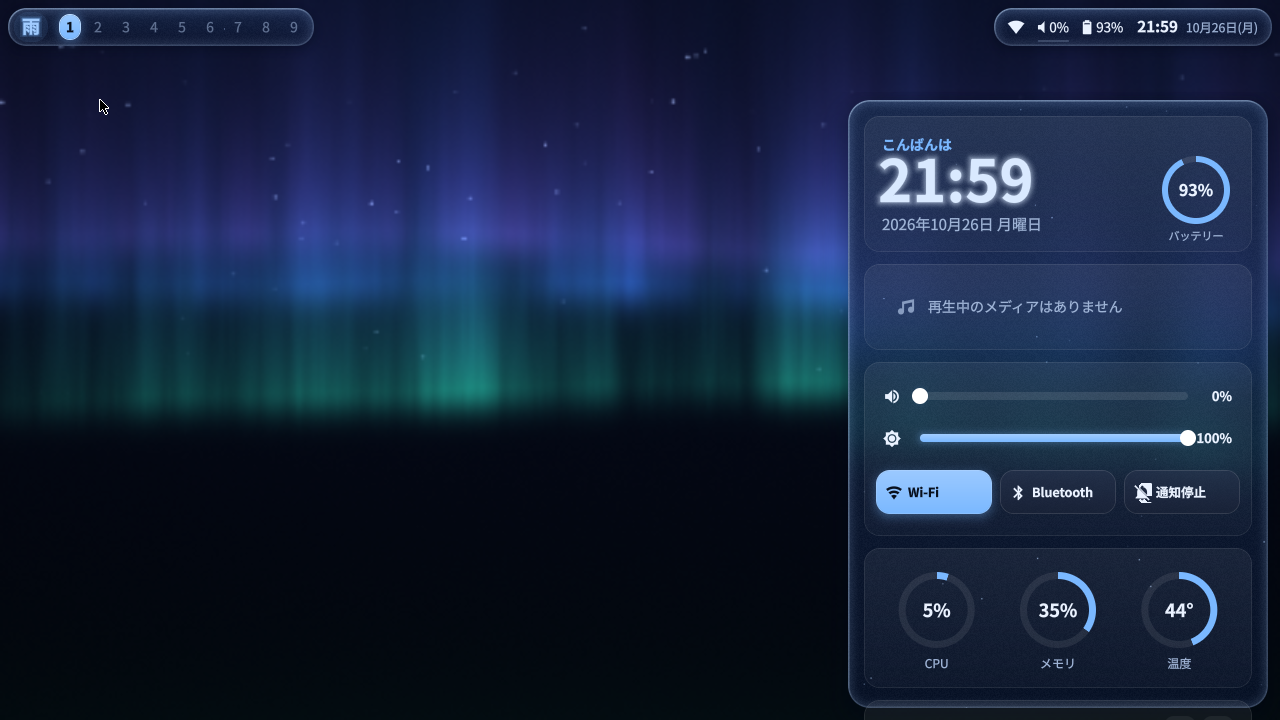
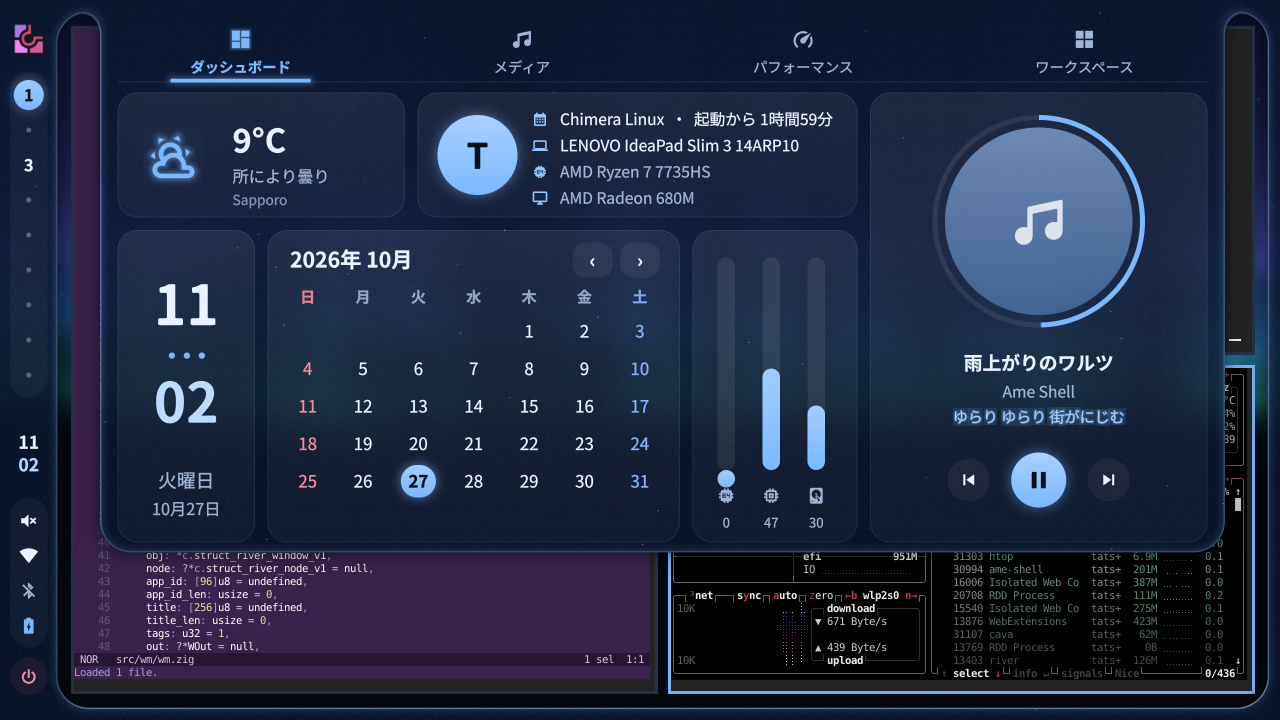
README とスクリーンショットを最新に、天気の場所の設定と ame-ctl dashboard <タブ> を追加

diff --git a/README.md b/README.md
@@ -1,51 +1,64 @@
 # ame-shell(雨)
 
-River(Wayland コンポジタ)の上で動く、アニメーション重視のガラス調デスクトップシェル。
-Quickshell / QML / Qt / Python / C++ を使わず、**Zig・Odin・C・WebAssembly** だけで書いています。
-Chimera Linux(musl + dinit)向け。SDDM から選んでログインできるセッションつき。
+[River](https://isaacfreund.com/software/river/)(Wayland コンポジタ)の上で動く、アニメーション重視のガラス調デスクトップシェル。
+caelestia-shell・end-4・ilyamiro の雰囲気を目指しつつ、Quickshell / QML / Qt / Python / C++ を使わず **Zig・Odin・C・WebAssembly** だけで書いています。
+Chimera Linux(musl + dinit)向け。SDDM から選べるセッションつき。
+
+![ame-shell](docs/screenshots/hero.png)
 
 | | |
 |---|---|
-| ![ランチャーと通知](docs/screenshots/launcher-notify.png) | ![ダッシュボード](docs/screenshots/dashboard.png) |
-| ![ロック画面](docs/screenshots/lock.png) | ![液体のように伸びるタグ表示](docs/screenshots/liquid-tags.png) |
+| ![ダッシュボード](docs/screenshots/dashboard.png) | ![メディアと同期歌詞](docs/screenshots/media.png) |
+| ![パフォーマンス](docs/screenshots/performance.png) | ![ワークスペースとアプリ](docs/screenshots/workspaces.png) |
+| ![ランチャー](docs/screenshots/launcher.png) | ![壁紙ピッカー](docs/screenshots/wallpaper-picker.png) |
+| ![壁紙から作る配色](docs/screenshots/theme-from-wallpaper.png) | ![ロック画面](docs/screenshots/lock.png) |
 
-## 何が入っているか
+## 特徴
 
-**レイアウトは 2 種類**(`shell { layout caelestia | classic }`、既定は caelestia):
-- **caelestia**: 画面のふちを細い枠が囲み、左に縦バー。枠の縁にマウスを乗せると、そこからドロワーが「ニョキッ」と生えてくる(枠とドロワーは 1 つの SDF で smooth-min 融合しているので、付け根に丸みのある首ができる)。
-  - 上の縁(中央): ダッシュボード(ダッシュボード / メディア(cava のスペクトラム)/ パフォーマンス / ワークスペース のタブ)
-  - 下の縁: ランチャー(Super+D、または下の縁から上へドラッグ)。`>` でアクション、`>壁紙` で壁紙ピッカー
-  - 右上: 通知 / 右の縁(中央): 音量・明るさの縦スライダー(OSD)/ 右下の角: ユーティリティ(Wi-Fi・Bluetooth・通知停止・スリープ防止・録画・スクショ・電源プロファイル)
-  - 右: セッション(Super+Escape / 電源ボタン / 右の縁を左へドラッグ)、サイドバー=通知センター(Super+N / 右の縁を大きく左へドラッグ)
-  - 縦バーの項目(時計・音量・ネット・Bluetooth・電池・ウィンドウ名)に乗せると、右へポップアウトが生える
-- **classic**: 画面上部に浮かぶ横バーと、独立したパネル群(以下の説明)。
+### 画面のふちから生えるドロワー(caelestia 風)
+画面を細い枠が囲み、左に縦バー。枠の縁にカーソルを乗せると、そこからドロワーが「ニョキッ」と生えてきます(枠とドロワーは 1 つの SDF シェーダで smooth-min 融合しているので、付け根に丸みのある首ができる)。
 
-- **バー**: River のタグ 1〜9。選択インジケータは 2 本のスプリングで両端を動かし、移動中は液体のように伸びる。ウィンドウタイトルのクロスフェード、ネット/音量/バッテリー/時計。クリック・ホイールで操作。
-- **ライブ壁紙**: シェーダで描くオーロラ / 雨(街のボケ + 雨筋 + 水たまりの波紋)/ 画像。切り替えは中心から広がる波紋のトランジション。バッテリー時は自動で FPS と解像度を下げる。
-- **ガラス**: 壁紙を dual Kawase でぼかし、パネルは真後ろをサンプル。縁で屈折・色収差・ハイライト、微細なノイズとスパークル。
-- **ランチャー**(Super+D): .desktop を Odin 製ファジーマッチで検索、結果は連鎖スプリングで順に出現。`>` で始めるとコマンド実行。よく使うアプリが上に来る。
-- **通知**: `org.freedesktop.Notifications` を内蔵(他のデーモンが動いていれば譲る)。右上にカードが積まれ、ホバー中は消えない。
-- **ダッシュボード**(Super+A / 時計クリック): **WASM ウィジェット**(時計・メディア・音量/明るさ/Wi-Fi/Bluetooth/通知停止・CPU/メモリ/温度・カレンダー)+ 通知センター。ウィジェットは保存すると状態を保ったままホットリロード。
-- **メディア**: MPRIS。アルバムアートから Odin で主色を抽出し、テーマのアクセント色がその色へなめらかに変わる。
-- **OSD**: 音量・明るさ。
-- **ロック画面**(Super+L): ext-session-lock-v1 + PAM。認証できない構成ではロックしない(閉じ込め防止)。
-- **ame-ctl**: Unix ソケットでシェルを操作する CLI。
+- **上: ダッシュボード** — 4 つのタブ
+  - ダッシュボード: 天気・機種/CPU/GPU 名・ユーザーの写真(クリックで選べる)・カレンダー・メディア
+  - メディア: 回るレコードと cava のスペクトラム、トーンアーム、**同期歌詞**(LRCLIB から自動取得、カラオケ風に塗られる、**行をクリックするとその時間へ**)
+  - パフォーマンス: CPU / GPU / メモリ / ストレージの円グラフ(CPU・GPU は温度つき)
+  - ワークスペース: 1〜9 と、それぞれで**開いているアプリのアイコンと名前**
+- **下: ランチャー** — Super 単独・Super+D。ファジー検索、よく使う順、お気に入りの固定、全アイコンテーマ + SVG。`>` でアクション、`>壁紙` で壁紙
+- **右: 音量・明るさ(OSD)/ 通知 / ユーティリティ / セッション / 通知センター**
+- **縦バー** — タグ(液体のように伸びるインジケータ)・時計・音量・ネット・Bluetooth・電池。乗せると右にポップアウト
+  - 音量のポップアウトで **出力先・入力先を切り替え**(再生中の音も移る)
+  - ネット / Bluetooth をクリックすると **Wi-Fi・Bluetooth の設定パネル**(接続・切断・パスワード・スキャン。外側をクリックで閉じる)。イヤホンは接続すると自動で音の出力先になる
 
-**その後に追加したもの**:
-- **River 0.5 セッション「Ame Shell (River 0.5)」**: ame-shell がウィンドウマネージャ(river-window-management-v1)を兼ねる。Hyprland の dwindle 配置、ワークスペース 1〜9、窓の開閉・移動・ワークスペース切替・閉じるのアニメーション(`src/wm/`)。River 0.3 のセッションもそのまま使える。
-- **壁紙から配色を自動生成**: 壁紙の一番鮮やかな色からアクセント(くすんだ緑は避ける)、ガラス・文字色も合わせて滑らかに遷移。エラーは赤で、失敗したときは枠の縁が赤く光る。
-- **ライブ壁紙に GIF / MP4**: libmpv を実行時に読み込み(dlopen)、ハードウェア復号した動画を壁紙に。
-- **Wi-Fi / Bluetooth の設定パネル**、音量のポップアウトで**出力先・入力先の切り替え**。Bluetooth のイヤホンは接続すると自動で音の出力先になる。
-- **ダッシュボード**: 機種・CPU・GPU 名、ユーザーの写真(クリックで選択)、同期歌詞つきのメディア、CPU/GPU/メモリ/ストレージの円グラフ、ワークスペースごとのアプリ名。
-- **ランチャー**: よく使う順・お気に入りの固定、アイコンは全アイコンテーマ + SVG。
+### River 0.5 では本物のウィンドウアニメーション
+River 0.5 は「描画は River、配置はウィンドウマネージャ」という分担です。ame-shell がそのウィンドウマネージャを兼ねます(`src/wm/`)。
+- Hyprland の **dwindle** 配置、ワークスペース 1〜9、新しい窓はフォーカス中の窓の次へ
+- **開く**: 中心から広がる / **移動・並べ替え**: なめらかに動く / **ワークスペース切替**: 横にスライド / **閉じる**: 縮んでから閉じる(すべてスプリング)
+- 動いているときだけ毎フレーム更新し、止まっていれば River との通信も 0
+- ame-shell を再起動しても窓のワークスペースは保たれる
+
+River 0.3 のセッションでも、シェル部分(ドロワー・壁紙・ランチャーなど)はそのまま使えます。
+
+### 壁紙と配色
+- **ライブ壁紙**: シェーダで描くオーロラ / 雨、**GIF・MP4 などの動画**(libmpv を実行時に読み込み、ハードウェア復号)、画像
+- **壁紙ピッカー**(Super+Shift+W): 斜めのカードが並び、決定するとカードの位置から円・斜めワイプ・短冊で切り替わる
+- **配色は壁紙から自動**: 壁紙の一番鮮やかな色からアクセント、ガラス・文字色も合わせてなめらかに遷移。再生中はアルバムアートの色に。くすんだ緑や、エラーと紛らわしい赤は避ける
+- **エラーは赤**: Wi-Fi の接続失敗などでは枠の縁が一瞬赤く光る
+- **ガラス**: 壁紙を dual Kawase でぼかし、パネルは真後ろをサンプル(屈折・色収差・ハイライト)
+
+### そのほか
+- 通知サーバ内蔵(`org.freedesktop.Notifications`。他のデーモンが動いていれば譲る)
+- ロック画面(Super+L、ext-session-lock + PAM)
+- WASM ウィジェット(保存すると状態を保ったままホットリロード)
+- `ame-ctl` でシェルを操作(キーバインドやスクリプトから)
 
 ## ビルド
 
-必要: zig 0.13、odin、wayland-scanner、wayland / EGL / GLESv2 / xkbcommon / freetype / harfbuzz / fontconfig / dbus の開発ファイル(詳細は `docs/deps.md`)。
+必要: Zig 0.13、Odin、wayland-scanner、wayland / EGL / GLESv2 / xkbcommon / freetype / harfbuzz / fontconfig / dbus の開発ファイル(詳細は `docs/deps.md`)。
+実行時に使うもの: `playerctl`・`wpctl` / `pactl`(PipeWire)・`nmcli`・`bluetoothctl`・`curl`・`cava`(任意)・`libmpv`(動画壁紙、任意)・`ffmpeg`(動画のサムネイル、任意)。
 
 ```sh
 zig build -Doptimize=ReleaseFast     # zig-out/bin/{ame-shell,ame-ctl}, zig-out/share/ame-shell/
-zig build test                       # スプリング・ファジー・主色抽出・設定パーサのテスト
+zig build test
 ```
 
 ## インストール(SDDM セッション)
@@ -55,87 +68,71 @@ zig build -Doptimize=ReleaseFast
 doas sh session/install-session.sh --prefix /usr/local     # --dry-run で内容確認だけもできる
 ```
 
-入るもの(全て `/usr/local/share/ame-shell/installed-files` に記録):
-`/usr/local/bin/{ame-shell,ame-ctl,ame-session}`、`/usr/local/share/ame-shell/`(ウィジェット・既定設定・River 用 init)、
-`/usr/local/share/wayland-sessions/ame-shell{,-safe}.desktop`(SDDM の SessionDir を読んで決定)、`/etc/pam.d/ame-shell`(ロック画面用)。
-既存ファイルを上書きする場合は `.ame-bak` に退避します。
+SDDM に 3 つのセッションが追加されます:
 
-元に戻す:
+| セッション | 内容 |
+|---|---|
+| **Ame Shell (River 0.5)** | ame-shell がウィンドウマネージャを兼ねる。ウィンドウアニメーションあり。River 0.5 が必要(`~/.local/opt/river-0.5` か PATH)|
+| **Ame Shell** | River 0.3 + ame-shell |
+| **Ame Shell (Safe Mode)** | River 0.3 + foot だけ(問題が起きたときの脱出口)|
+
+入るものは `/usr/local/share/ame-shell/installed-files` に記録され、元に戻すのは `doas sh session/install-session.sh --uninstall --prefix /usr/local`。
+ログは `~/.local/state/ame-shell/session.log`。起動直後に 3 回続けて落ちると、次回は自動でセーフモードになります。
+
+インストールせずに試す(今のセッションの中にウィンドウとして開く):
 ```sh
-doas sh session/install-session.sh --uninstall --prefix /usr/local
+PATH=$PWD/zig-out/bin:$PATH AME_SESSION_NESTED=1 session/ame-session --river5
 ```
 
-### システム前提(Chimera)
-- `sddm`・`dbus`・`elogind`(または `seatd`)の dinit サービスが有効: `doas dinitctl enable sddm` など
-- PAM の `system-login` に `pam_turnstile`(XDG_RUNTIME_DIR)と `pam_elogind` がある(Chimera の既定)
-- seatd を使う場合はユーザーを `_seatd` グループへ
-- River がシステムにインストールされていること(`river -version`)
+### Bluetooth イヤホン(AirPods など)が繋がらないとき
+`br-connection-refused` で繋がらない・すぐ切れる場合は、`doas sh session/bt-airpods-fix.sh` で BlueZ を従来の Bluetooth(BR/EDR)接続に切り替えてから、ペアリングし直してください(`--undo` で元に戻せます)。
 
-## SDDM での初回ログイン手順
-
-1. SDDM のセッション選択で **「Ame Shell (Safe Mode)」** を選んでログイン → River と foot だけが起動することを確認(ame-shell は起動しない)。
-2. Super+Shift+E で River を終了して SDDM に戻る。
-3. **「Ame Shell」** を選んでログイン → バーと壁紙が出れば成功。
-4. うまくいかない場合: Ctrl+Alt+F2 などで TTY に切り替えてログを確認し、必要なら `--uninstall` で元に戻す。
-
-ログ: `~/.local/state/ame-shell/session.log`(River と ame-shell の出力、各プロセスの終了コードと時間)。
-起動直後に 3 回続けて落ちると `~/.local/state/ame-shell/crashloop` が作られ、次回は自動でセーフモードになります(正常に 60 秒以上動けば解除、手動なら `rm` で)。
-
-インストールせずに試す(今のセッション内にウィンドウとして開く):
-```sh
-PATH=$PWD/zig-out/bin:$PATH AME_SESSION_NESTED=1 session/ame-session
-```
-
-## River のキーバインド(`session/ame-river-init`)
+## キー操作(River 0.5 セッション)
 
 | キー | 動作 |
 |---|---|
-| Super+Return | foot |
-| Super+D | ランチャー(`ame-ctl launcher toggle`) |
-| Super+A | ダッシュボード |
-| Super+Escape | セッション(ロック/ログアウト/スリープ/再起動/電源オフ。危険な操作は 2 回押し)|
-| Super+U | ユーティリティ |
-| Super(単独で押して離す)| ランチャー(evdev で判定。`shell { super-launcher off }` で無効)|
-| Super+Shift+W | 壁紙ピッカー(斜めのカード。決定するとカードの位置から円・斜めワイプ・短冊のいずれかで切り替え)|
-| Super+N | 通知センター |
-| Super+Q | ウィンドウを閉じる |
-| Super+L | ロック(River 0.5 / river.sh では比率の変更は Super+Ctrl+H/L) |
-| Super+Shift+E | River を終了(脱出口) |
-| Super+Shift+R | ame-shell を再起動 |
-| Super+1..9 / Super+Shift+1..9 / Super+Ctrl+1..9 | タグ切替 / ウィンドウを移動 / タグの表示を足す |
-| Super+J/K, Super+Shift+J/K | フォーカス / 入れ替え |
-| Super+F / Super+Space | 全画面 / フロート |
-| 音量・明るさ・メディアキー | OSD 付き(ロック中も有効) |
+| Super(単独で押して離す)/ Super+D | ランチャー |
+| Super+Return / Super+T | foot |
+| Super+A / Super+N / Super+U | ダッシュボード / 通知センター / ユーティリティ |
+| Super+Escape | セッション(ロック・ログアウト・再起動・電源オフ。危険な操作は 2 回押し)|
+| Super+L | ロック |
+| Super+Shift+W | 壁紙ピッカー |
+| Super+Q / Super+F / Super+Space | 閉じる / 全画面 / フロート |
+| Super+J・K / Super+Shift+J・K | フォーカス / 入れ替え |
+| Super+Ctrl+H・L | 左右の比率 |
+| Super+1〜9 / Super+Shift+1〜9 / Super+Alt+1〜9 | ワークスペース切替 / 窓を移動 / 窓を移動して自分も移る |
+| Super+Ctrl+1〜9 | ワークスペースの表示を足す |
+| Super+P / Super+Shift+P | スクラッチパッド |
+| Super+ドラッグ(左 / 右)/ Super+中クリック | 移動 / 大きさ変更 / フロート |
+| Print / Shift+Print | 範囲 / 全画面のスクリーンショット(~/Pictures/Screenshots + クリップボード)|
+| 音量・明るさ・メディアキー | OSD つき |
+| Super+Shift+E | セッションを終了 |
 
-自分用の追加設定は `~/.config/ame-shell/river-extra.sh`(あれば最後に読み込まれます)。
-今使っている River 用のキーバインドから呼ぶ例:
-```sh
-riverctl map normal Super D spawn "ame-ctl launcher toggle"
-riverctl map normal None XF86AudioRaiseVolume spawn "ame-ctl volume up"
-```
+River 0.3 セッションのキーは `session/ame-river-init`(追加設定は `~/.config/ame-shell/river-extra.sh`)。
 
 ## 設定
 
 `~/.config/ame-shell/config.ame`(無ければ `share/ame-shell/config.ame`)。**保存した瞬間に反映**されます。
 
 ```
-theme {
-  accent #7ab8ff
-  tint-strength 0.42
-  radius 18
-  blur 3
-  sparkle 0.7
-  anim-speed 1.0
-  media-accent on
+shell {
+  layout caelestia              // caelestia | classic(上部の横バー)
+  ui-scale 1.25
+  super-launcher on
+  weather-location "Sapporo"    // 省略すると IP アドレスから推定
 }
-bar { height 38; position top; show-seconds off }
+theme {
+  auto-color on                 // 壁紙から配色を作る
+  media-accent on               // 再生中はアルバムアートの色に
+  blur 3
+}
 wallpaper {
-  mode rain                 // aurora | rain | image
-  // image "~/Pictures/wall.jpg"
+  mode aurora                   // aurora | rain | image
+  // image "~/Videos/rain.mp4"  // 画像・GIF・動画
+  transition random             // ripple | circle | slant | shards | random
   fps 30
   battery-fps 12
 }
-font { ui "Noto Sans CJK JP" }
 ```
 全項目は `data/config.ame` を参照。
 
@@ -143,10 +140,12 @@ font { ui "Noto Sans CJK JP" }
 
 ```
 ame-ctl launcher toggle|open [検索語]|close
-ame-ctl dashboard toggle
+ame-ctl dashboard toggle|open|close|dashboard|media|performance|workspaces
+ame-ctl network | bluetooth | wallpaper-picker | session | sidebar | utilities | close-all
 ame-ctl volume up|down|mute|<0-100>      ame-ctl brightness up|down
-ame-ctl wallpaper aurora|rain|<画像パス>  ame-ctl accent '#ff88aa'|reset
-ame-ctl notify <テキスト>                  ame-ctl notifications toggle|clear
+ame-ctl wallpaper aurora|rain|<画像・GIF・動画のパス>
+ame-ctl accent '#ff88aa'|reset           ame-ctl notify <テキスト>
+ame-ctl workspace <1-9>                  ame-ctl window close|fullscreen|float|focus-next|…(River 0.5)
 ame-ctl lock | reload | widgets reload | stats | restart | quit
 ```
 
@@ -156,15 +155,17 @@ ame-ctl lock | reload | widgets reload | stats | restart | quit
 
 ## 既知の問題
 
-- ウィンドウの開閉アニメは River 0.5 セッションのみ(River 0.3 には外部から窓を動かす手段が無い)。ウィンドウ越しのガラスは未対応。
-- ランチャーの日本語入力(IME)未対応。トレイ未実装。
-- 動画壁紙は再生中 CPU 約 5%(720p)・メモリ +130MB 程度。
-- RSS は約 130MB(うち約 70MB は Mesa/LLVM の共有ライブラリ。PSS は約 75MB)。
+- ウィンドウの開閉アニメーションは River 0.5 セッションのみ(River 0.3 には外から窓を動かす手段が無い)。ウィンドウ越しのガラスは未対応。
+- River 0.3 では、ワークスペースごとのアプリ名は推測(River 0.3 は窓とタグの対応を外に出さない)。
+- ランチャーの日本語入力(IME)とトレイは未対応。
+- 動画壁紙は再生中に CPU 約 5%(720p)・メモリ +130MB 程度を使う。
 - 詳細は `docs/blockers.md`、計測値は `docs/perf.md`。
 
 ## ドキュメント
+
 `docs/architecture.md`(構成)・`docs/decisions.md`(設計判断と理由)・`docs/perf.md`(実測)・`docs/reference-analysis.md`(参考シェルの分析)・`docs/progress.md`(進捗)
 
 ## ライセンス
 
 GPL-3.0(`LICENSE`)。同梱のサードパーティ: wasm3(MIT、`third_party/wasm3/LICENSE`)、stb_image(MIT / パブリックドメイン)、nanosvg(zlib)。`protocol/` の XML は各プロトコルのライセンスに従います。
+スクリーンショットの壁紙はシェーダと ffmpeg で生成したもの、歌詞は説明用に書いたオリジナルです。
